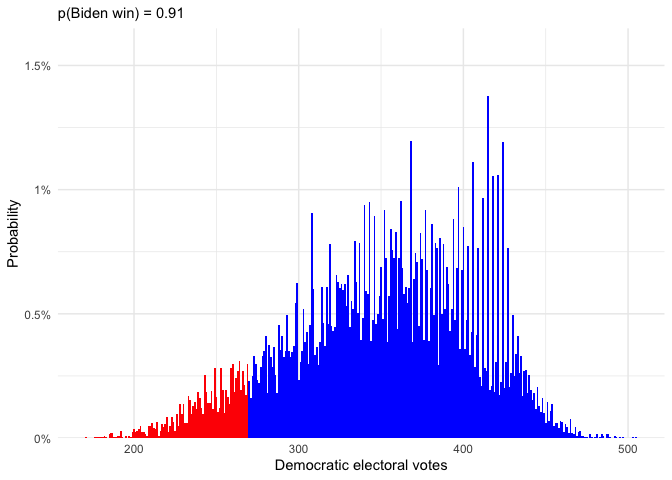
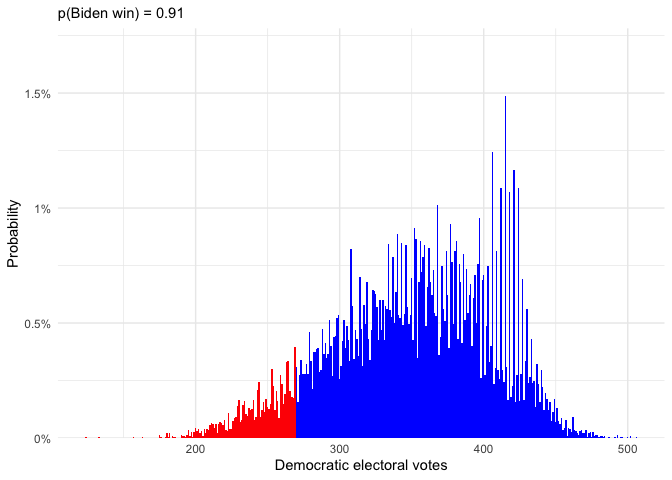
Add changes

diff --git a/README.md b/README.md
@@ -117,7 +117,7 @@ Automated report:
 
 These graphs are updated hourly with new polls.
 
-Last updated on **September 02, 2020 at 11:14 AM EDT.**
+Last updated on **September 02, 2020 at 12:13 PM EDT.**
 
 ### National polling average
 
@@ -142,34 +142,34 @@ In table form…
 |:------|:---------------------------------------|:------|:--------------------|
 | ME    | 11 \[-3, 24\]                          | TX    | 0 \[-14, 13\]       |
 | NH    | 10 \[-3, 24\]                          | GA    | 0 \[-14, 13\]       |
-| MN    | 8 \[-6, 21\]                           | IA    | 0 \[-14, 13\]       |
+| PA    | 7 \[-7, 20\]                           | IA    | 0 \[-14, 13\]       |
 | WI    | 7 \[-7, 20\]                           | OH    | -1 \[-15, 13\]      |
 | MI    | 7 \[-6, 21\]                           | AK    | -4 \[-17, 10\]      |
 | NV    | 7 \[-6, 21\]                           | SC    | -5 \[-19, 8\]       |
-| FL    | 6 \[-8, 19\]                           | MT    | -7 \[-20, 7\]       |
-| PA    | 6 \[-7, 20\]                           | KS    | -8 \[-22, 6\]       |
+| MN    | 7 \[-6, 21\]                           | MT    | -7 \[-20, 7\]       |
+| FL    | 6 \[-8, 19\]                           | KS    | -8 \[-22, 6\]       |
 | AZ    | 4 \[-10, 17\]                          | MO    | -10 \[-23, 4\]      |
-| NC    | 2 \[-12, 15\]                          | MS    | -11 \[-24, 3\]      |
+| NC    | 1 \[-12, 15\]                          | MS    | -11 \[-25, 3\]      |
 
 **The rest of the states:**
 
 | State | Biden margin, uncertainty interval (%) | State | Biden margin, … (%) |
 |:------|:---------------------------------------|:------|:--------------------|
-| DC    | 78 \[64, 92\]                          | CO    | 12 \[-2, 25\]       |
-| CA    | 36 \[22, 49\]                          | LA    | -12 \[-25, 1\]      |
-| MA    | 33 \[19, 46\]                          | UT    | -13 \[-26, 1\]      |
-| HI    | 32 \[18, 45\]                          | IN    | -13 \[-26, 1\]      |
-| VT    | 31 \[17, 44\]                          | NE    | -13 \[-27, 0\]      |
+| DC    | 78 \[64, 91\]                          | CO    | 12 \[-2, 25\]       |
+| CA    | 36 \[22, 49\]                          | LA    | -12 \[-26, 2\]      |
+| MA    | 33 \[19, 46\]                          | IN    | -13 \[-26, 1\]      |
+| VT    | 31 \[17, 44\]                          | UT    | -13 \[-26, 1\]      |
+| HI    | 31 \[18, 45\]                          | NE    | -14 \[-27, 0\]      |
 | MD    | 28 \[14, 42\]                          | KY    | -16 \[-29, -2\]     |
 | NY    | 28 \[15, 42\]                          | TN    | -16 \[-29, -2\]     |
-| WA    | 26 \[13, 40\]                          | AR    | -17 \[-30, -3\]     |
+| WA    | 26 \[12, 40\]                          | AR    | -17 \[-30, -3\]     |
 | RI    | 21 \[7, 35\]                           | SD    | -17 \[-31, -4\]     |
 | IL    | 21 \[8, 35\]                           | ID    | -19 \[-33, -6\]     |
 | NJ    | 19 \[5, 32\]                           | AL    | -20 \[-33, -6\]     |
 | CT    | 19 \[6, 33\]                           | OK    | -22 \[-36, -9\]     |
-| OR    | 18 \[4, 31\]                           | ND    | -22 \[-36, -9\]     |
-| DE    | 18 \[4, 32\]                           | WV    | -28 \[-42, -15\]    |
-| NM    | 15 \[1, 28\]                           | WY    | -31 \[-44, -17\]    |
+| DE    | 18 \[4, 32\]                           | ND    | -22 \[-36, -9\]     |
+| OR    | 17 \[4, 31\]                           | WV    | -28 \[-42, -15\]    |
+| NM    | 15 \[1, 28\]                           | WY    | -31 \[-45, -17\]    |
 | VA    | 12 \[-2, 25\]                          |       |                     |
 
 ### Changes in state averages relative to the national margin
@@ -195,25 +195,24 @@ how often that happens:
 
 | State | Tipping point chance (%) | State | Tipping point chance (%) |
 |:------|-------------------------:|:------|-------------------------:|
-| FL    |                     19.6 | AK    |                      0.4 |
-| PA    |                     10.5 | CT    |                      0.4 |
-| TX    |                     10.3 | SC    |                      0.4 |
-| MI    |                      8.5 | DE    |                      0.2 |
-| NC    |                      6.0 | IL    |                      0.2 |
-| WI    |                      5.9 | KS    |                      0.2 |
-| AZ    |                      5.8 | MO    |                      0.1 |
-| MN    |                      5.2 | MT    |                      0.1 |
-| VA    |                      4.8 | RI    |                      0.1 |
-| OH    |                      4.3 | HI    |                      0.0 |
-| GA    |                      3.9 | IN    |                      0.0 |
-| CO    |                      3.2 | KY    |                      0.0 |
-| NV    |                      2.9 | LA    |                      0.0 |
-| IA    |                      1.7 | MS    |                      0.0 |
-| ME    |                      1.7 | NE    |                      0.0 |
-| NH    |                      1.5 | NY    |                      0.0 |
-| NM    |                      0.8 | TN    |                      0.0 |
-| NJ    |                      0.6 | UT    |                      0.0 |
-| OR    |                      0.6 | WA    |                      0.0 |
+| FL    |                     19.4 | OR    |                      0.7 |
+| PA    |                     10.9 | AK    |                      0.4 |
+| TX    |                     10.0 | CT    |                      0.4 |
+| MI    |                      8.7 | SC    |                      0.4 |
+| AZ    |                      6.0 | IL    |                      0.3 |
+| WI    |                      5.9 | DE    |                      0.1 |
+| MN    |                      5.5 | KS    |                      0.1 |
+| NC    |                      5.3 | MO    |                      0.1 |
+| VA    |                      4.8 | MT    |                      0.1 |
+| OH    |                      4.2 | RI    |                      0.1 |
+| GA    |                      4.0 | IN    |                      0.0 |
+| CO    |                      3.1 | LA    |                      0.0 |
+| NV    |                      3.1 | MS    |                      0.0 |
+| NH    |                      1.6 | NE    |                      0.0 |
+| ME    |                      1.5 | NY    |                      0.0 |
+| IA    |                      1.4 | SD    |                      0.0 |
+| NM    |                      0.9 | TN    |                      0.0 |
+| NJ    |                      0.7 | UT    |                      0.0 |
 
 ### Electoral college outcomes
 
@@ -233,7 +232,7 @@ electoral college majority:
 | Republicans win the popular vote and electoral college                    |          2 |
 | Republicans win the popular vote, but Democrats win the electoral college |          0 |
 
-The probability the Democrats win the national popular vote is 98.3%.
+The probability the Democrats win the national popular vote is 98.12%.
 
 #### The divide between the electoral college and popular vote
 
@@ -241,7 +240,7 @@ We can quantify either party’s edge as the average across simulations of
 Joe Biden’s margin in the tipping-point state and his margin nationally:
 
 On average, the tipping point state is **<span
-style="color: #3498DB;">2.7</span>** percentage points to the **<span
+style="color: #3498DB;">2.6</span>** percentage points to the **<span
 style="color: #3498DB;">right</span>** of the nation as a whole.
 
 Endmatter
